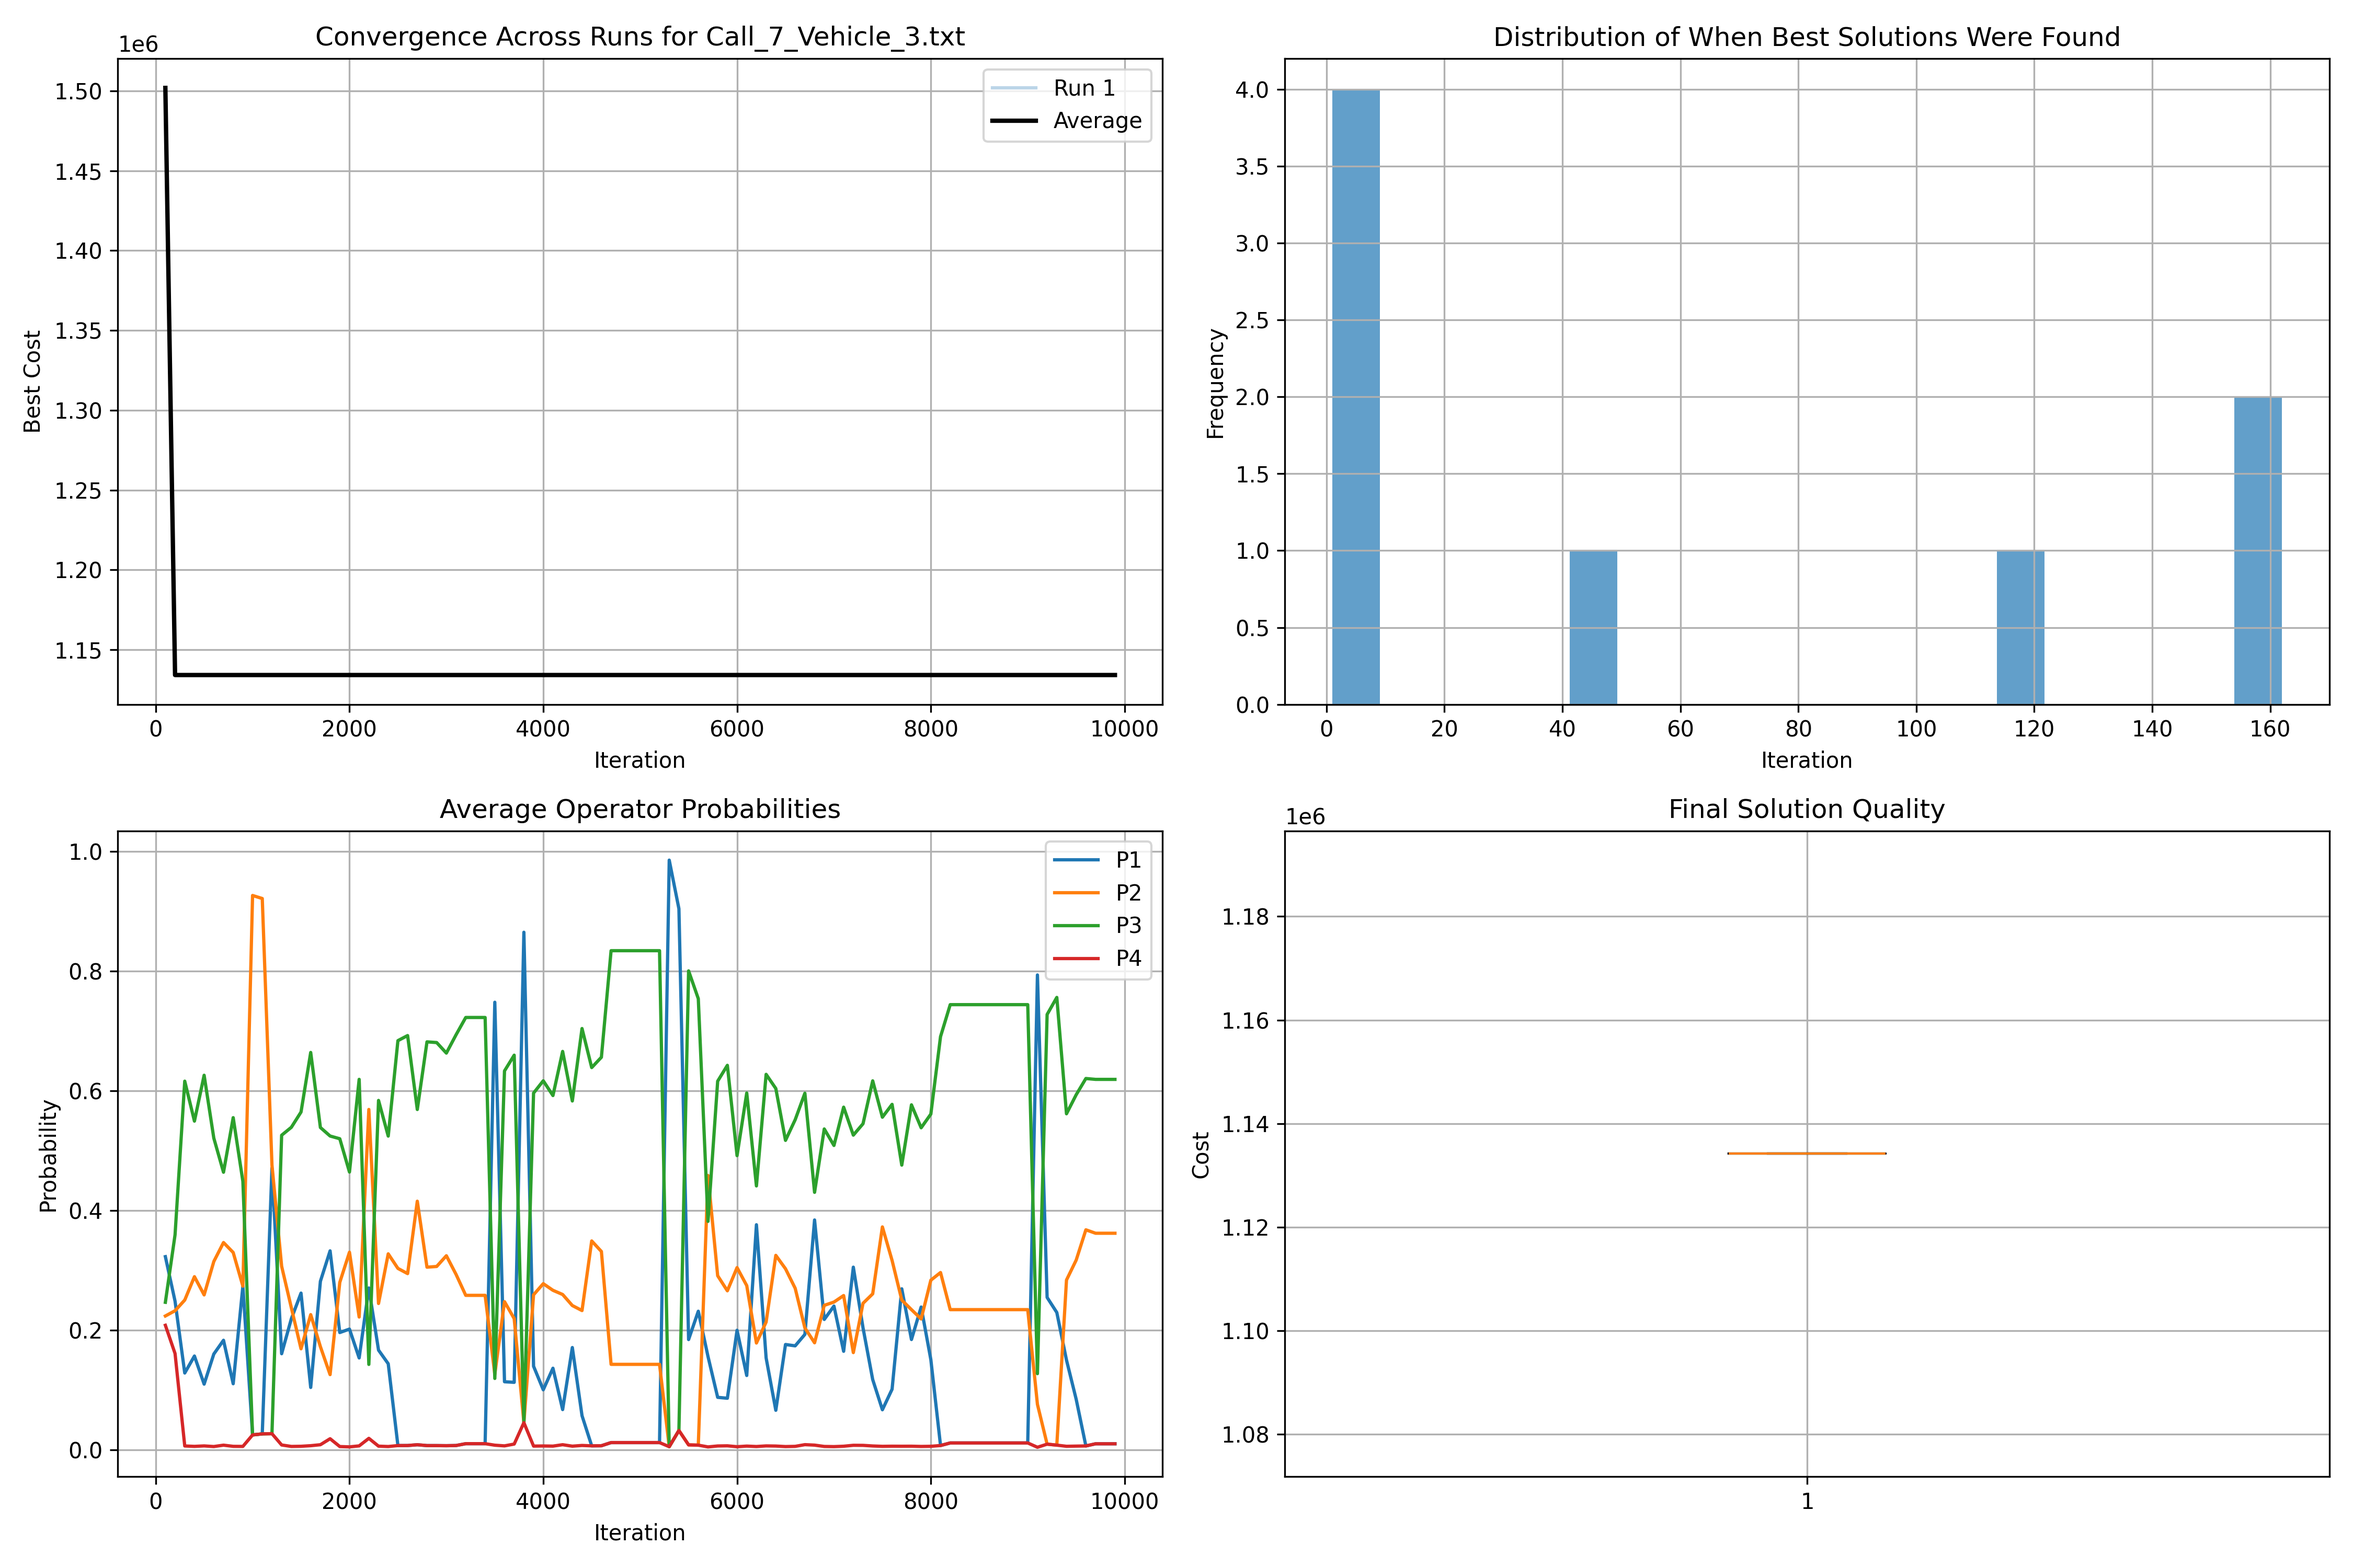
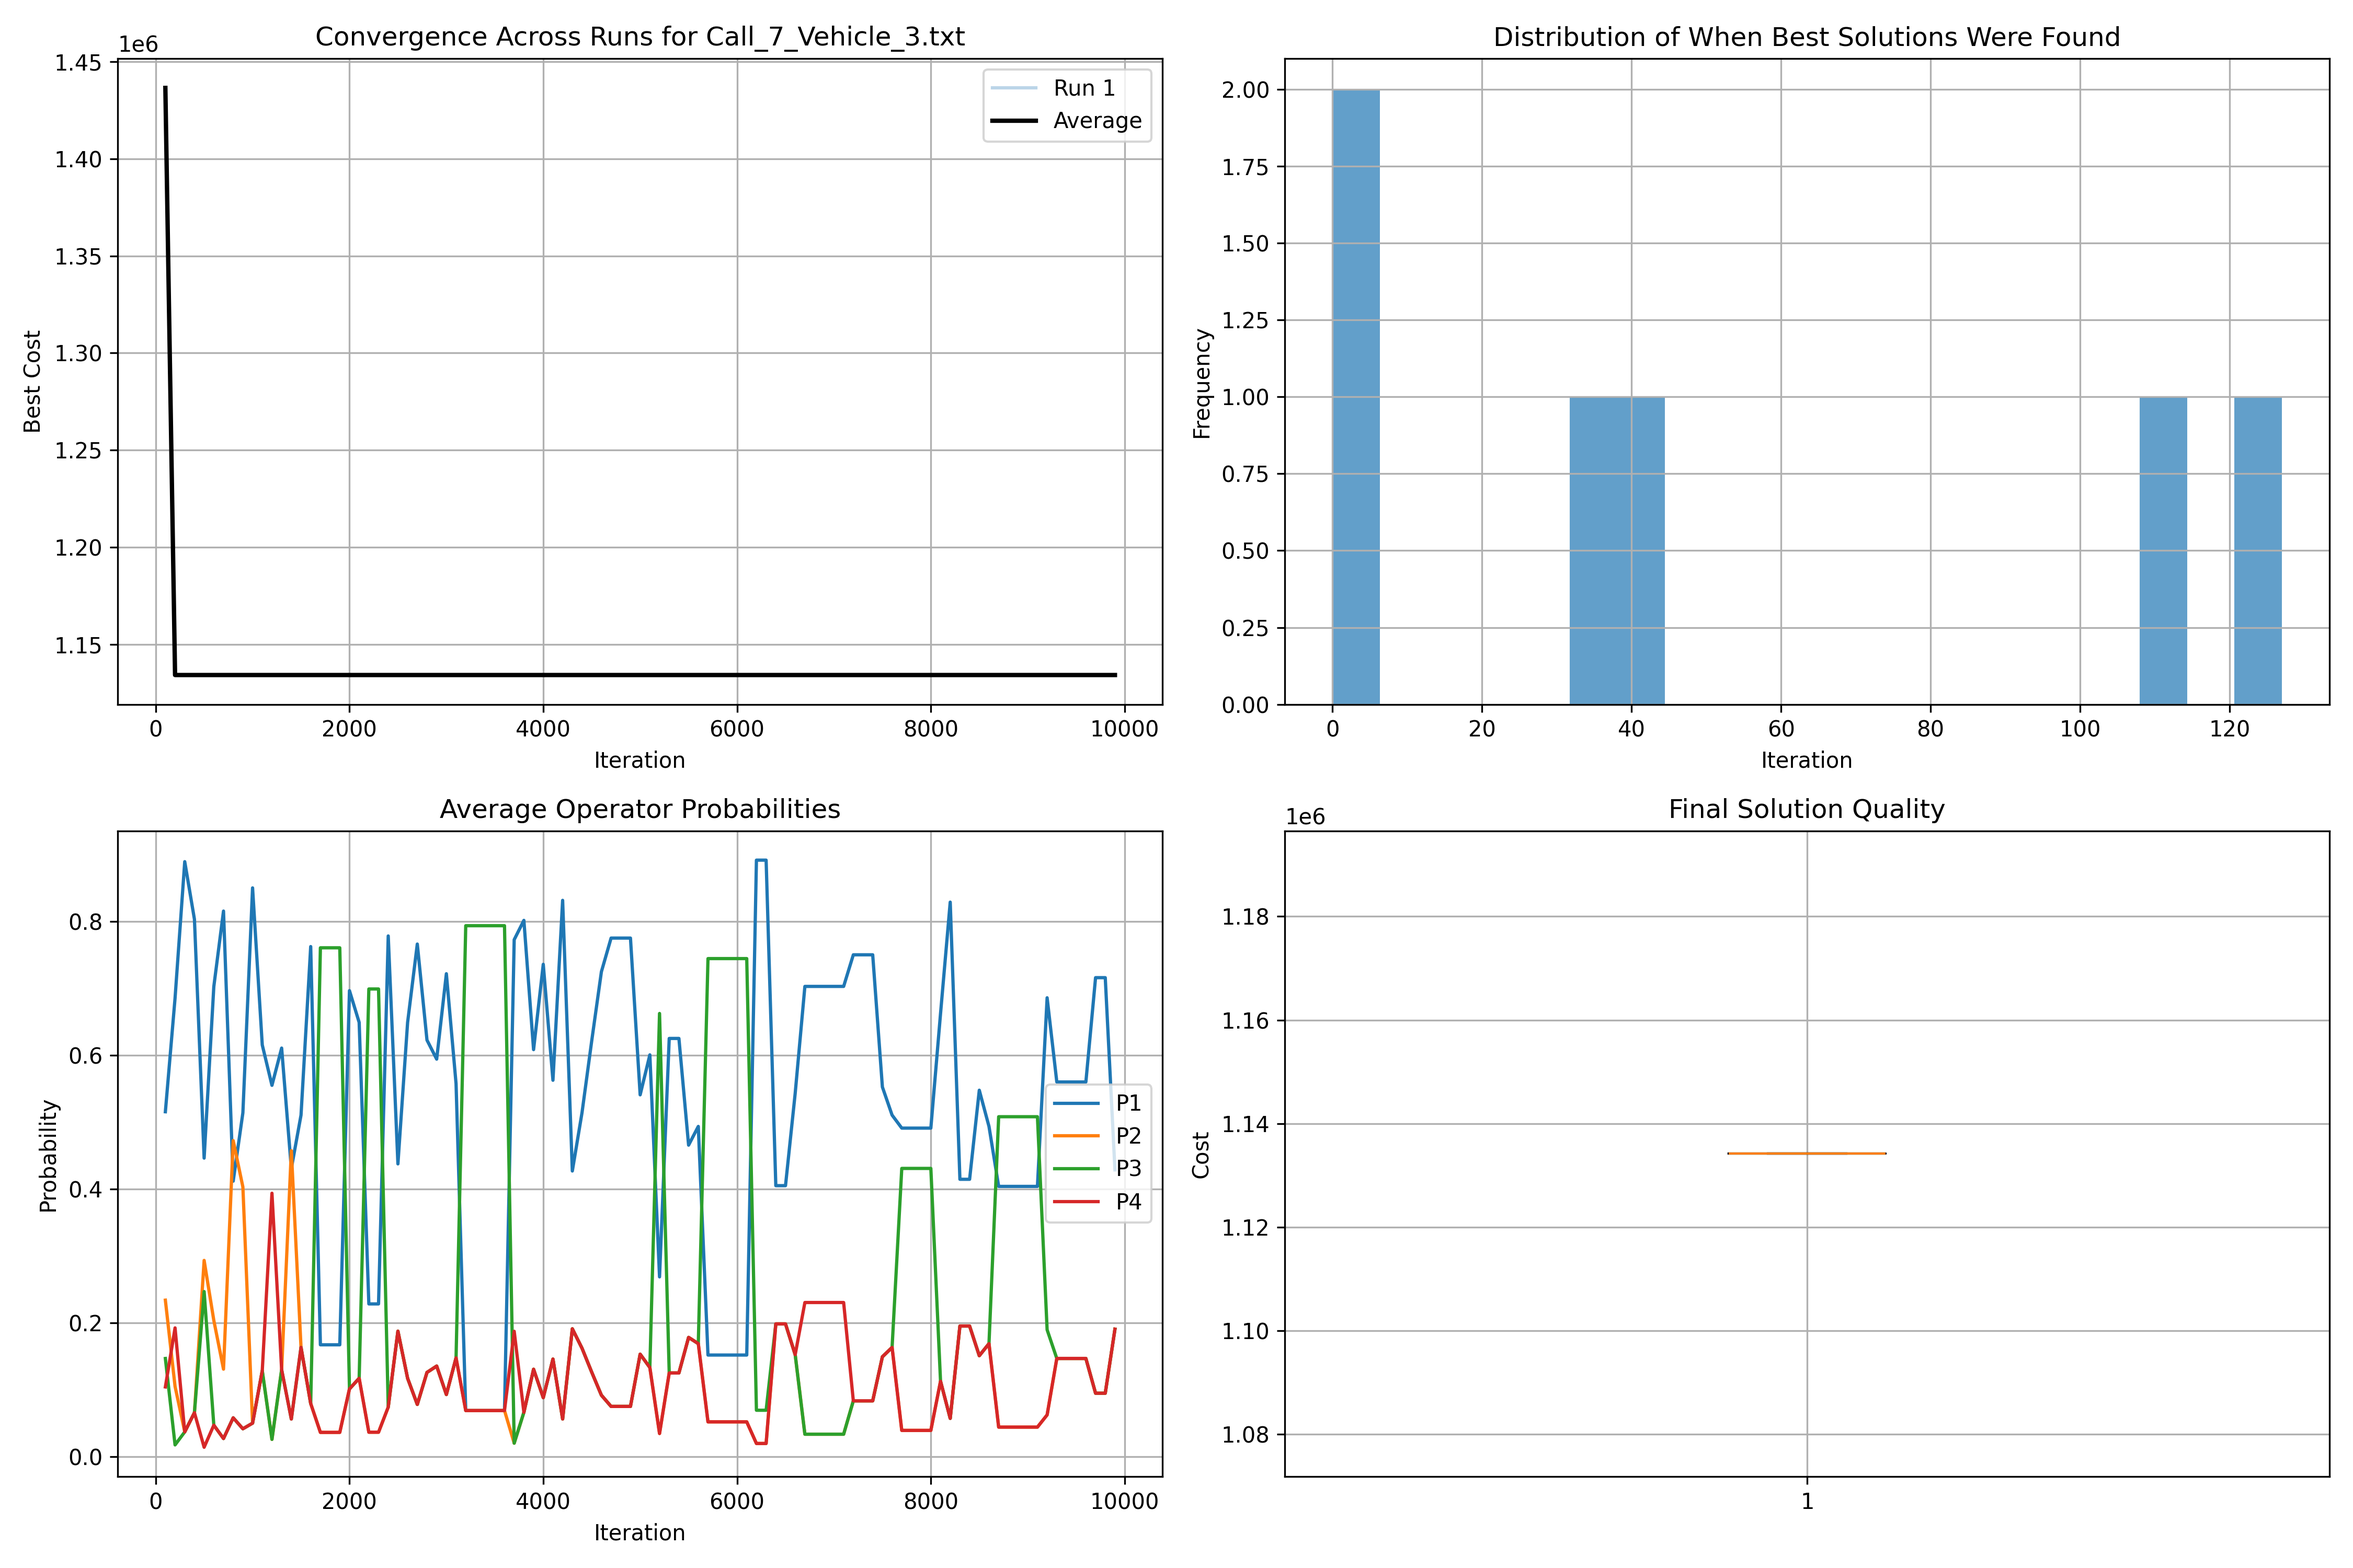
updated

diff --git a/assignment_5.py b/assignment_5.py
@@ -641,7 +641,7 @@ def acceptance_probability(new_sol, incumbent, incumbent_cost, i, total_iteratio
     elif feasibility and (new_cost <= max_acceptable_cost):
         incumbent = new_sol.copy()
         incumbent_cost = new_cost
-        score += 1 # SKAL JEG HA DENNE????
+        # score += 1 # SKAL JEG HA DENNE????
 
     return incumbent, incumbent_cost, score
         
@@ -721,6 +721,8 @@ def general_adaptive_metaheuristics(prob, initial_sol, plot_results = True):
         else:
             feasibility, _ = feasibility_check(new_sol, prob)
             feasibility_cache[sol_key] = (feasibility, _)
+            op_stats[chosen_op["name"]]["score"] += 1 # Found a new solution
+            counter += 1
         
         if feasibility:
             if sol_key in cost_cache:
